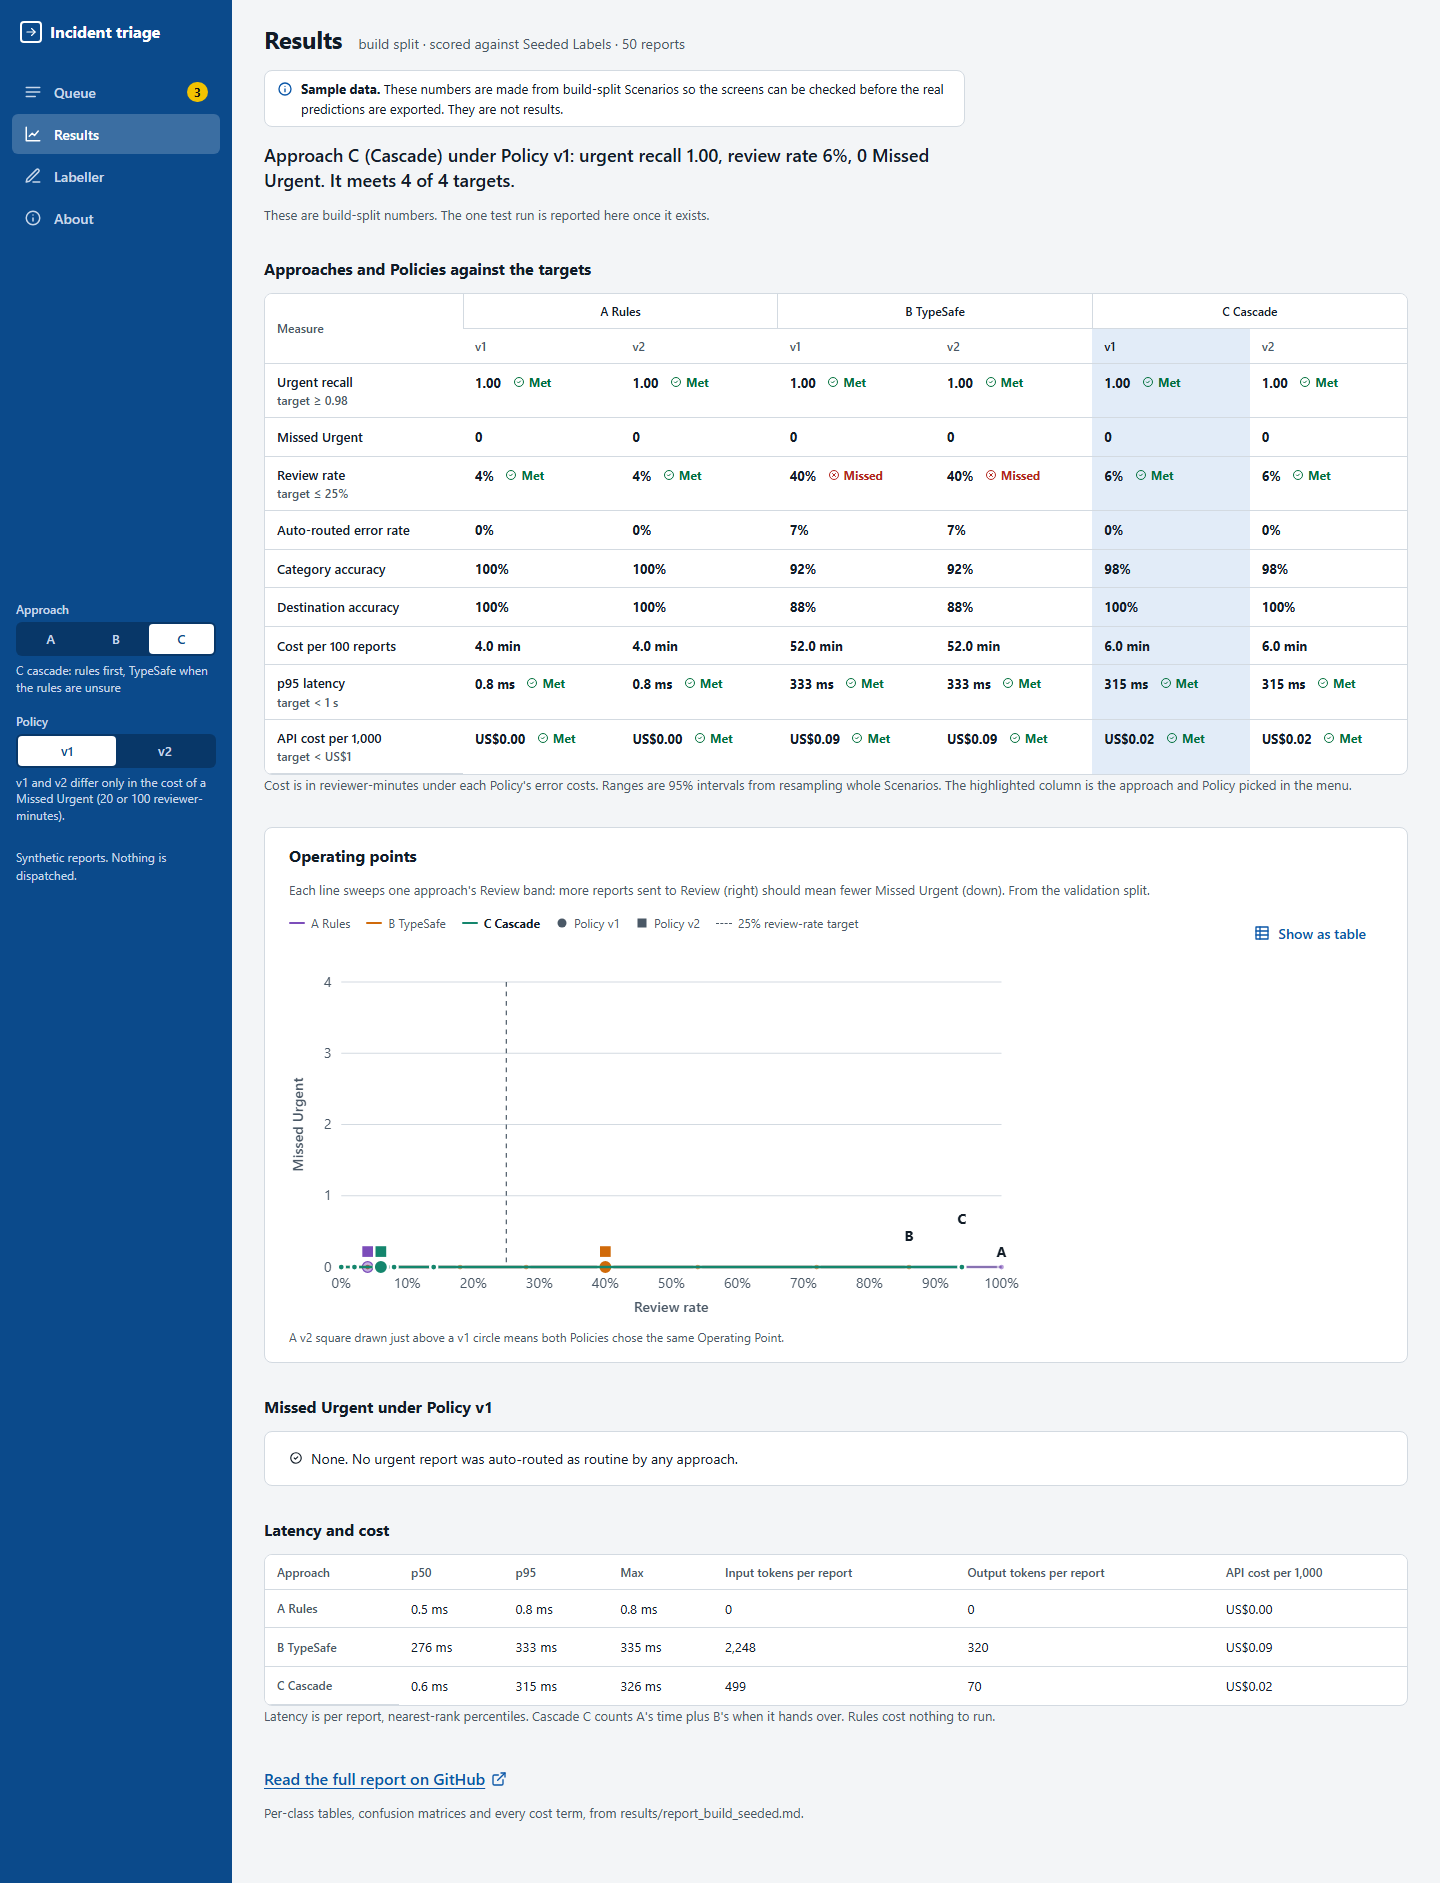
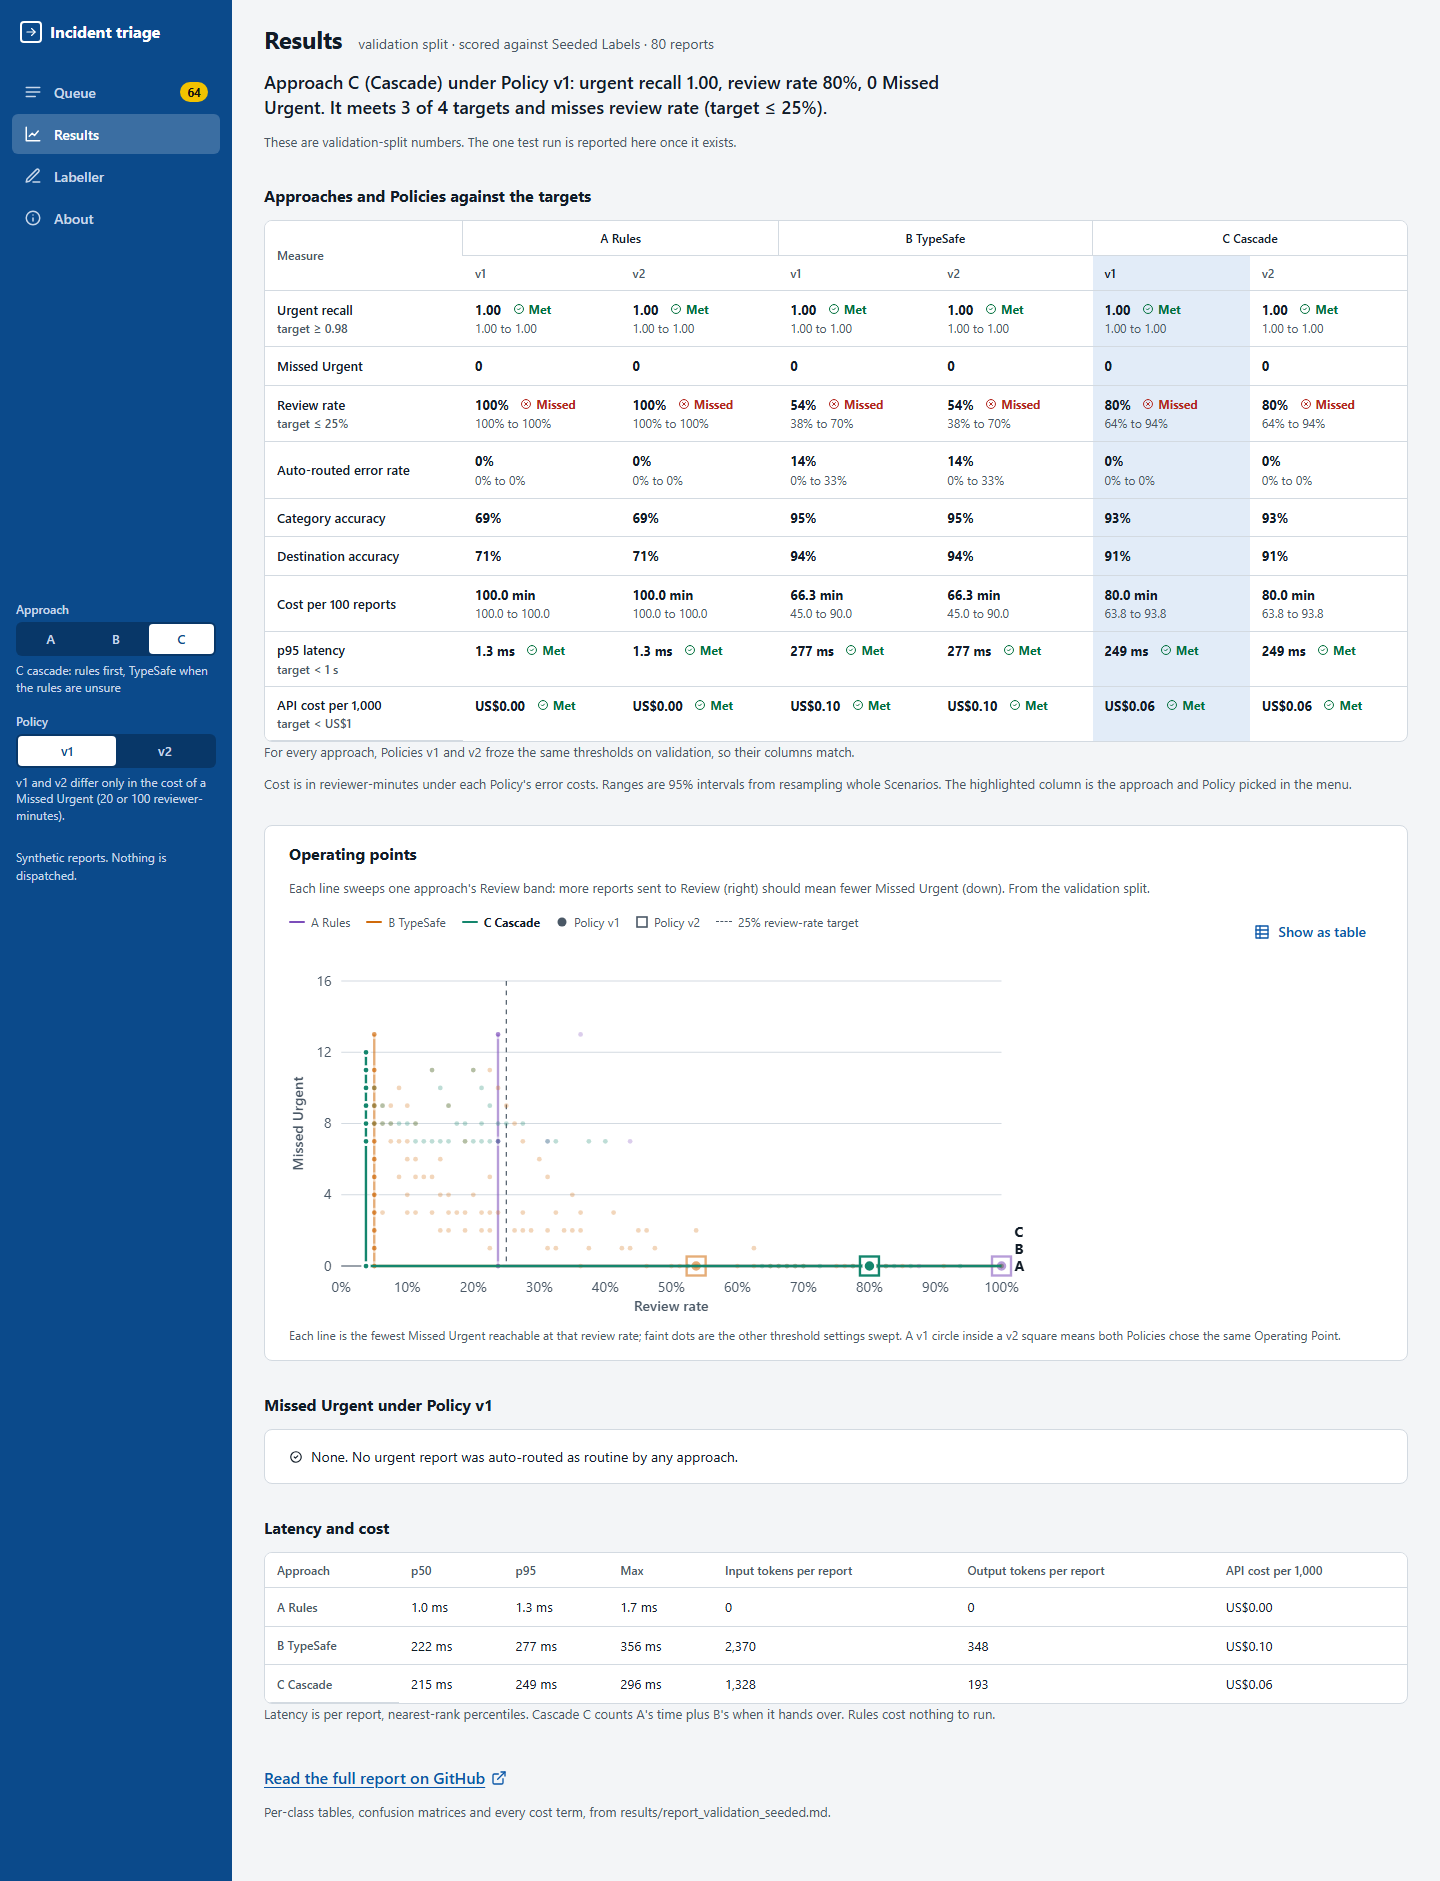
Polish UI for real data: operating-point frontier, honest v1/v2 note, phone fixes
- Operating-point chart draws each approach's frontier as a step line (fewest Missed
  Urgent at each review rate) with the other sweep settings as faint dots, instead of
  zigzagging through all ~760 points; even y ticks; v2 is a hollow square around the v1
  circle rather than a square drawn at a false y value; scrolls on phone instead of
  shrinking text below legibility.
- Results headline names the missed target; a note says when v1 and v2 froze the same
  thresholds so identical columns are not misread.
- Phone: report id shown on Incident detail; Queue time separator spacing; About button
  44px.
- Final build shots for every screen, desktop and phone, light and dark.

diff --git a/web/src/lib/components/OperatingChart.svelte b/web/src/lib/components/OperatingChart.svelte
@@ -27,29 +27,36 @@
 				const points = Object.values(seen).sort(
 					(x, y) => x.review_rate - y.review_rate || y.missed_urgent - x.missed_urgent
 				);
-				return { a, points, v1: c.v1, v2: c.v2 };
+				// The sweep varies two thresholds, so many settings share a review rate. The line is
+				// the frontier: the fewest Missed Urgent reachable at or below each review rate.
+				const front: CurvePoint[] = [];
+				for (const p of points) if (!front.length || p.missed_urgent < front.at(-1)!.missed_urgent) front.push(p);
+				const xEnd = points.length ? points.at(-1)!.review_rate : 0;
+				return { a, points, front, xEnd, v1: c.v1, v2: c.v2 };
 			})
 	);
 	const all = $derived(series.flatMap((s) => [...s.points, ...(s.v1 ? [s.v1] : []), ...(s.v2 ? [s.v2] : [])]));
 	const xMax = $derived(Math.min(1, Math.max(0.3, Math.ceil(Math.max(0, ...all.map((p) => p.review_rate)) * 10) / 10)));
-	const yMax = $derived(Math.max(4, Math.ceil(Math.max(0, ...all.map((p) => p.missed_urgent)) / 2) * 2));
+	// Whole-number y ticks in even steps: 0, step, 2·step, 3·step, 4·step.
+	const yStep = $derived(Math.max(1, Math.ceil(Math.max(0, ...all.map((p) => p.missed_urgent)) / 4)));
+	const yMax = $derived(yStep * 4);
 	const sx = (v: number) => M.l + (v / xMax) * (W - M.l - M.r);
 	const sy = (v: number) => H - M.b - (v / yMax) * (H - M.t - M.b);
 	const xTicks = $derived(Array.from({ length: Math.round(xMax * 10) + 1 }, (_, i) => i / 10));
-	const yTicks = $derived(Array.from({ length: 5 }, (_, i) => Math.round((yMax / 4) * i)));
+	const yTicks = $derived(Array.from({ length: 5 }, (_, i) => yStep * i));
 
-	const path = (pts: CurvePoint[]) =>
-		pts.map((p, i) => `${i ? 'L' : 'M'}${sx(p.review_rate).toFixed(1)},${sy(p.missed_urgent).toFixed(1)}`).join('');
+	// Step line: hold each frontier count until the next review rate that lowers it.
+	const path = (pts: CurvePoint[], xEnd: number) =>
+		pts
+			.map((p, i) => `${i ? `H${sx(p.review_rate).toFixed(1)}V` : `M${sx(p.review_rate).toFixed(1)},`}${sy(p.missed_urgent).toFixed(1)}`)
+			.join('') + (pts.length ? `H${sx(xEnd).toFixed(1)}` : '');
 
-	// Direct labels just above each line's right end, nudged upward so they never overlap
-	// each other or the x-axis ticks.
+	// Direct labels just right of each line's end, stacked upward so they never overlap
+	// each other or the Policy marks.
 	const ends = $derived.by(() => {
 		const e = series
-			.filter((s) => s.points.length)
-			.map((s) => {
-				const last = s.points.at(-1)!;
-				return { a: s.a, x: sx(last.review_rate), y: sy(last.missed_urgent) - 12 };
-			})
+			.filter((s) => s.front.length)
+			.map((s) => ({ a: s.a, x: sx(s.xEnd) + 11, y: sy(s.front.at(-1)!.missed_urgent) }))
 			.sort((p, q) => q.y - p.y);
 		for (let i = 1; i < e.length; i++) if (e[i - 1].y - e[i].y < 14) e[i].y = e[i - 1].y - 14;
 		return e;
@@ -69,7 +76,8 @@
 		const el = e.currentTarget as SVGElement;
 		const box = el.closest('.chart-box')!.getBoundingClientRect();
 		const r = el.getBoundingClientRect();
-		tip = { x: r.left + r.width / 2 - box.left, y: r.top - box.top, text };
+		const sc = el.closest('.chart-scroll')!;
+		tip = { x: r.left + r.width / 2 - box.left + sc.scrollLeft, y: r.top - box.top, text };
 	}
 </script>
 
@@ -79,7 +87,7 @@
 			<li class:current={s.a === approach}><span class="sw-line" style="background: {COLORS[s.a]}"></span>{s.a} {APPROACH_NAME[s.a]}</li>
 		{/each}
 		<li><svg class="mk" viewBox="0 0 12 12" aria-hidden="true"><circle cx="6" cy="6" r="4.5" fill="var(--text-2)" /></svg>Policy v1</li>
-		<li><svg class="mk" viewBox="0 0 12 12" aria-hidden="true"><rect x="1.5" y="1.5" width="9" height="9" fill="var(--text-2)" /></svg>Policy v2</li>
+		<li><svg class="mk" viewBox="0 0 12 12" aria-hidden="true"><rect x="1" y="1" width="10" height="10" fill="none" stroke="var(--text-2)" stroke-width="1.6" /></svg>Policy v2</li>
 		<li><span class="sw-dash"></span>25% review-rate target</li>
 	</ul>
 	<button class="btn btn-quiet" type="button" aria-pressed={asTable} onclick={() => (asTable = !asTable)}>
@@ -112,7 +120,7 @@
 		</table>
 	</div>
 {:else}
-	<div class="chart-box">
+	<div class="chart-box"><div class="chart-scroll">
 		<svg viewBox="0 0 {W} {H}" role="img" aria-labelledby="chart-desc" class="chart" onmouseleave={() => (tip = null)}>
 			<desc id="chart-desc">{summary}</desc>
 			<g class="grid" aria-hidden="true">
@@ -121,7 +129,7 @@
 					<text x={M.l - 8} y={sy(v)} dy="0.32em" text-anchor="end">{v}</text>
 				{/each}
 				{#each xTicks as v (v)}
-					<text x={sx(v)} y={H - M.b + 18} text-anchor="middle">{pct(v)}</text>
+					<text x={sx(v)} y={H - M.b + 22} text-anchor="middle">{pct(v)}</text>
 				{/each}
 				<line class="axis" x1={M.l} x2={W - M.r} y1={sy(0)} y2={sy(0)} />
 				<text class="axis-title" x={(M.l + W - M.r) / 2} y={H - 6} text-anchor="middle">Review rate</text>
@@ -132,28 +140,32 @@
 			</g>
 			{#each series as s (s.a)}
 				<g class="series" class:dim={s.a !== approach} style="--c: {COLORS[s.a]}">
-					<path d={path(s.points)} />
 					{#each s.points as p, i (i)}
+						<circle class="other" cx={sx(p.review_rate)} cy={sy(p.missed_urgent)} r="2" />
+					{/each}
+					<path d={path(s.front, s.xEnd)} />
+					{#each s.front as p, i (i)}
 						<circle class="hit" cx={sx(p.review_rate)} cy={sy(p.missed_urgent)} r="9" role="presentation" onmouseenter={(e) => show(e, describe(s.a, p))} />
 						<circle class="dot" cx={sx(p.review_rate)} cy={sy(p.missed_urgent)} r="3" />
 					{/each}
-					{#if s.v1}
-						<circle class="mark" cx={sx(s.v1.review_rate)} cy={sy(s.v1.missed_urgent)} r="6" role="presentation" onmouseenter={(e) => show(e, describe(s.a, s.v1!, 'v1'))} />
-					{/if}
 					{#if s.v2}
-						<rect class="mark" x={sx(s.v2.review_rate) - 5.5} y={sy(s.v2.missed_urgent) - 5.5 - (s.v1 && s.v1.review_rate === s.v2.review_rate && s.v1.missed_urgent === s.v2.missed_urgent ? 13 : 0)} width="11" height="11" role="presentation" onmouseenter={(e) => show(e, describe(s.a, s.v2!, 'v2'))} />
+						<rect class="mark2" x={sx(s.v2.review_rate) - 8} y={sy(s.v2.missed_urgent) - 8} width="16" height="16" role="presentation" onmouseenter={(e) => show(e, describe(s.a, s.v2!, 'v2'))} />
+					{/if}
+					{#if s.v1}
+						<circle class="mark" cx={sx(s.v1.review_rate)} cy={sy(s.v1.missed_urgent)} r="5" role="presentation" onmouseenter={(e) => show(e, describe(s.a, s.v1!, 'v1'))} />
 					{/if}
 				</g>
 			{/each}
 			{#each ends as e (e.a)}
-				<text class="end-label" x={e.x} y={e.y} dy="0.32em" text-anchor="middle" aria-hidden="true">{e.a}</text>
+				<text class="end-label" x={e.x} y={e.y} dy="0.32em" text-anchor="start" aria-hidden="true">{e.a}</text>
 			{/each}
 		</svg>
+		</div>
 		{#if tip}
 			<div class="tip" role="status" style="left: {tip.x}px; top: {tip.y}px">{tip.text}</div>
 		{/if}
 	</div>
-	<p class="chart-note">A v2 square drawn just above a v1 circle means both Policies chose the same Operating Point.</p>
+	<p class="chart-note">Each line is the fewest Missed Urgent reachable at that review rate; faint dots are the other threshold settings swept. A v1 circle inside a v2 square means both Policies chose the same Operating Point.</p>
 {/if}
 
 <style>
@@ -201,8 +213,12 @@
 	.chart-box {
 		position: relative;
 	}
+	.chart-scroll {
+		overflow-x: auto;
+	}
 	.chart {
 		width: 100%;
+		min-width: 560px; /* below this the 12px chart text shrinks past legibility; scroll instead */
 		max-width: 760px; /* keeps 12px chart text near 12px on wide screens */
 		height: auto;
 		display: block;
@@ -238,6 +254,16 @@
 		stroke: var(--surface);
 		stroke-width: 2;
 	}
+	.series .other {
+		fill: var(--c);
+		opacity: 0.28;
+	}
+	.series .mark2 {
+		fill: none;
+		stroke: var(--c);
+		stroke-width: 2;
+		cursor: default;
+	}
 	.series .hit {
 		fill: transparent;
 	}
@@ -248,7 +274,9 @@
 		cursor: default;
 	}
 	.series.dim path,
-	.series.dim .dot {
+	.series.dim .dot,
+	.series.dim .mark,
+	.series.dim .mark2 {
 		opacity: 0.55;
 	}
 	.end-label {

diff --git a/web/src/routes/(app)/results/+page.svelte b/web/src/routes/(app)/results/+page.svelte
@@ -64,12 +64,21 @@
 	const current = $derived(m?.[view.approach]?.[view.policy] ?? null);
 	const headline = $derived.by(() => {
 		if (!current) return '';
-		const checks = ROWS.filter((r) => r.met).map((r) => r.met!(current));
-		const met = checks.filter((c) => c === true).length;
-		return `Approach ${view.approach} (${APPROACH_NAME[view.approach]}) under Policy ${view.policy}: urgent recall ${p2(current.urgency.recall)}, review rate ${pct(current.routing.review_rate)}, ${current.routing.missed_urgent_count} Missed Urgent. It meets ${met} of ${checks.length} targets.`;
+		const checks = ROWS.filter((r) => r.met).map((r) => ({ r, ok: r.met!(current) }));
+		const met = checks.filter((c) => c.ok === true).length;
+		const missedNames = checks.filter((c) => c.ok === false).map((c) => `${c.r.label.toLowerCase()} (target ${c.r.target})`);
+		const misses = missedNames.length ? ` and misses ${missedNames.join(' and ')}` : '';
+		return `Approach ${view.approach} (${APPROACH_NAME[view.approach]}) under Policy ${view.policy}: urgent recall ${p2(current.urgency.recall)}, review rate ${pct(current.routing.review_rate)}, ${current.routing.missed_urgent_count} Missed Urgent. It meets ${met} of ${checks.length} targets${misses}.`;
 	});
 	const missed = $derived(
 		APPROACHES.flatMap((a) => (m?.[a]?.[view.policy]?.routing.missed_urgent ?? []).map((c) => ({ a, c })))
+	);
+	// Approaches whose v1 and v2 froze the same thresholds, so their two columns are identical.
+	const sameOp = $derived(
+		APPROACHES.filter((a) => {
+			const c = curve?.approaches[a];
+			return c?.v1 && c?.v2 && c.v1.urgent_threshold === c.v2.urgent_threshold && JSON.stringify(c.v1.band) === JSON.stringify(c.v2.band);
+		})
 	);
 	const labelsWord = $derived(results?.labels === 'final' ? 'final (Blind) Labels' : 'Seeded Labels');
 </script>
@@ -130,6 +139,11 @@
 				</tbody>
 			</table>
 		</div>
+		{#if sameOp.length}
+			<p class="muted small">
+				{sameOp.length === APPROACHES.length ? 'For every approach' : `For ${sameOp.join(' and ')}`}, Policies v1 and v2 froze the same thresholds on validation, so their columns match.
+			</p>
+		{/if}
 		<p class="muted small">Cost is in reviewer-minutes under each Policy's error costs. Ranges are 95% intervals from resampling whole Scenarios. The highlighted column is the approach and Policy picked in the menu.</p>
 	</section>
 

diff --git a/web/src/routes/(app)/+page.svelte b/web/src/routes/(app)/+page.svelte
@@ -264,7 +264,7 @@
 							<td class="col-report">
 								<a class="rid" href={href(r)} data-rid={r.report.id} onclick={(e) => { e.preventDefault(); e.stopPropagation(); open(r); }} onfocus={() => (selected = r.report.id)}>{r.report.id}</a>
 								<span class="excerpt">{r.report.text}</span>
-								<span class="time-inline num muted">{r.report.received}{#if r.status === 'awaiting'} · waiting {waited(r.report.waiting_min)}{/if}</span>
+								<span class="time-inline num muted">{r.report.received}{#if r.status === 'awaiting'}{' · '}waiting {waited(r.report.waiting_min)}{/if}</span>
 							</td>
 							<td class="col-cat">{CATEGORY_NAME[r.category]}</td>
 							<td><DestinationPlate destination={r.destination} /></td>
@@ -291,7 +291,7 @@
 							<span class="li-top">
 								<UrgencyMark urgency={r.urgency} />
 								<span class="rid">{r.report.id}</span>
-								<span class="li-time num">{r.report.received}{#if r.status === 'awaiting'} · {waited(r.report.waiting_min)}{/if}</span>
+								<span class="li-time num">{r.report.received}{#if r.status === 'awaiting'}{' · '}{waited(r.report.waiting_min)}{/if}</span>
 							</span>
 							<span class="li-text">{r.report.text}</span>
 							<span class="li-plates">

diff --git a/web/src/routes/(app)/about/+page.svelte b/web/src/routes/(app)/about/+page.svelte
@@ -97,11 +97,16 @@
 	<p>
 		{stored ? `${stored} reports have Reviewer Actions saved in this browser.` : 'No Reviewer Actions are saved in this browser.'}
 	</p>
-	<button class="btn" type="button" disabled={!stored} onclick={() => { actions.clear(); cleared = true; }}><Icon name="undo" />Clear Reviewer Actions</button>
+	<button class="btn clear" type="button" disabled={!stored} onclick={() => { actions.clear(); cleared = true; }}><Icon name="undo" />Clear Reviewer Actions</button>
 	<p class="muted small" aria-live="polite">{cleared && !stored ? 'Cleared. The Queue shows every Review item as awaiting again.' : ''}</p>
 </article>
 
 <style>
+	@media (max-width: 599px) {
+		.clear {
+			min-height: 44px;
+		}
+	}
 	.about {
 		max-width: 72ch;
 	}

diff --git a/web/src/routes/(app)/incident/[id]/+page.svelte b/web/src/routes/(app)/incident/[id]/+page.svelte
@@ -683,7 +683,6 @@
 	}
 	@media (max-width: 599px) {
 		.crumb,
-		.detail-head h1,
 		.head-actions {
 			display: none;
 		}
